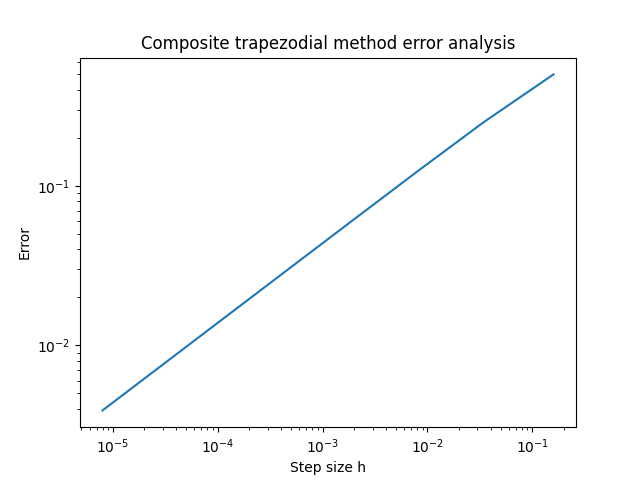
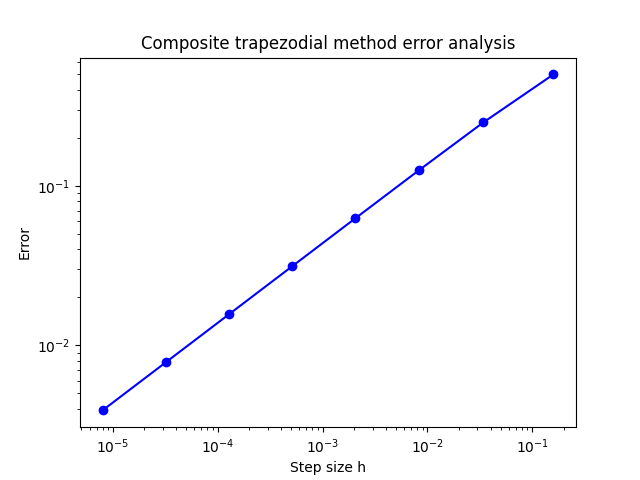
Finishing touches

diff --git a/assignment9/assignment9.py b/assignment9/assignment9.py
@@ -37,7 +37,7 @@ def given_function():
 
 
 def plot_error(number_of_subintervals, errors):
-    plt.loglog(number_of_subintervals, errors)
+    plt.loglog(number_of_subintervals, errors, 'bo-')
     plt.xlabel("Step size h")
     plt.ylabel("Error")
     plt.title(
@@ -58,3 +58,7 @@ if __name__ == "__main__":
         errors.append(abs(true_value - result))
 
     plot_error(errors, [1 / x for x in number_of_subintervals])
+
+    p = np.polyfit(np.log(number_of_subintervals), np.log(errors), 1)[0]
+    print(f"Observed convergence rate: {p:.2f}")
+    
